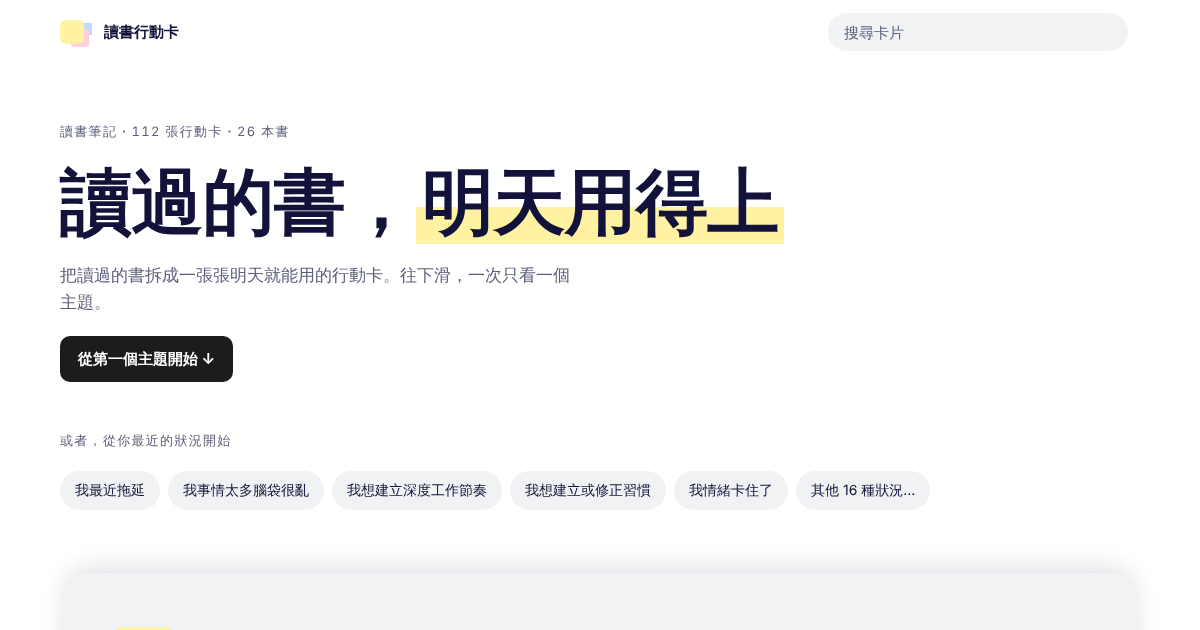
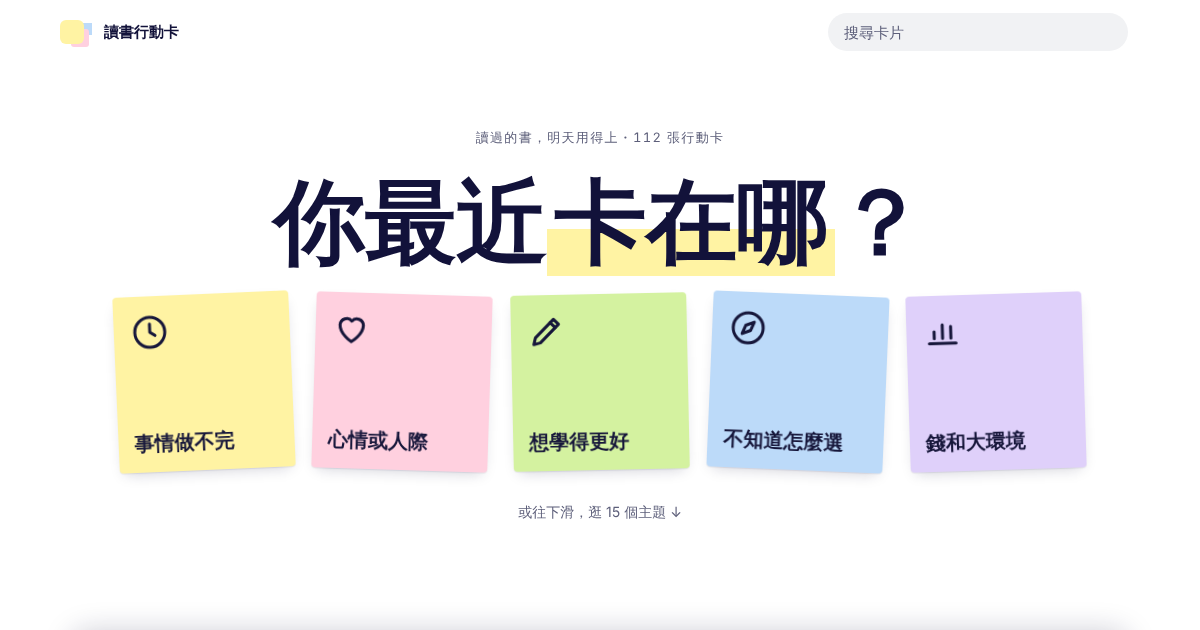
Open with a question flow that narrows down to matching cards
The first screen now asks where the visitor is stuck, then leads through
a category and a scenario to three cards. Topic slabs and the card view
carry less text and have a clear focal point.

Claude-Session: https://claude.ai/code/session_01KNDSXx5r3oeSEPQVxNjiE6

diff --git a/index.html b/index.html
@@ -3,10 +3,10 @@
 <head>
 <meta charset="utf-8">
 <meta name="viewport" content="width=device-width, initial-scale=1, viewport-fit=cover">
-<meta name="description" content="把讀過的書拆成一張張明天就能用的行動卡，往下滑，一次只看一個主題。">
+<meta name="description" content="把讀過的書拆成一張張明天就能用的行動卡，先回答一個問題，再拿到對應的卡。">
 <meta property="og:type" content="website">
 <meta property="og:title" content="讀過的書，明天用得上">
-<meta property="og:description" content="把讀過的書拆成一張張明天就能用的行動卡，往下滑，一次只看一個主題。">
+<meta property="og:description" content="把讀過的書拆成一張張明天就能用的行動卡，先回答一個問題，再拿到對應的卡。">
 <meta property="og:url" content="https://kevinpage.link/">
 <meta property="og:image" content="https://kevinpage.link/og.png">
 <meta name="twitter:card" content="summary_large_image">
@@ -66,16 +66,31 @@ h1,h2,h3,p,ol,ul{margin:0}
 .ghost{font-size:14px;color:var(--ink-soft);padding:8px 4px;white-space:nowrap}
 .ghost:hover{color:var(--accent)}
 
-/* 封面 */
-#hero{padding-block:clamp(40px,9vh,96px) clamp(48px,10vh,104px);display:flex;flex-direction:column;gap:20px;align-items:flex-start}
+/* 開場：先問一個問題，再一步步縮小到卡片。每一步畫面中央只有一句話和幾張便利貼。 */
+#flow{min-height:calc(100svh - var(--bar));display:flex;flex-direction:column;align-items:center;justify-content:center;text-align:center;gap:clamp(18px,3.6vh,34px);padding-block:20px 56px}
 .eyebrow{font-size:13px;letter-spacing:.1em;color:var(--ink-soft);font-variant-numeric:tabular-nums}
-h1{font-size:clamp(36px,7vw,72px);font-weight:900;line-height:1.12;letter-spacing:-.01em;text-wrap:balance}
+.crumbs{display:flex;flex-wrap:wrap;gap:6px;align-items:center;justify-content:center;font-size:13px;color:var(--ink-soft)}
+.crumbs button{background:var(--panel);border-radius:999px;padding:5px 12px}
+.crumbs button:hover{background:var(--accent-soft);color:var(--accent)}
+.crumbs b{font-weight:500;color:var(--ink);padding:5px 4px}
+h1{font-size:clamp(40px,8.5vw,92px);font-weight:900;line-height:1.1;letter-spacing:-.01em;text-wrap:balance}
+h1.s{font-size:clamp(30px,5.4vw,56px)}
 h1 mark{background:linear-gradient(transparent 58%,var(--n0) 58%);color:inherit;padding:0 .08em}
-#hero .sub{font-size:17px;color:var(--ink-soft);max-width:30em}
-#hero h3{font-size:13px;font-weight:500;color:var(--ink-soft);letter-spacing:.1em;margin-top:28px}
-.chips{display:flex;flex-wrap:wrap;gap:8px}
-.chips button{background:var(--panel);border-radius:999px;padding:8px 15px;font-size:14px}
-.chips button:hover{background:var(--accent-soft);color:var(--accent)}
+#flow .sub{font-size:clamp(15px,2vw,18px);color:var(--ink-soft);max-width:28em}
+.choices{display:flex;flex-wrap:wrap;justify-content:center;gap:clamp(12px,2vw,22px);max-width:1000px}
+.choice{width:clamp(140px,17vw,176px);min-height:clamp(128px,17vw,176px);background:var(--note);color:var(--note-ink);border-radius:4px;box-shadow:var(--sh-note);padding:16px;
+  display:flex;flex-direction:column;justify-content:space-between;gap:14px;text-align:left;font-weight:700;font-size:clamp(16px,2vw,20px);line-height:1.3;
+  transform:rotate(var(--r,0deg));transition:transform .2s cubic-bezier(.2,.8,.2,1),box-shadow .2s}
+.choice:hover,.choice:focus-visible{transform:rotate(0deg) translateY(-6px) scale(1.04);box-shadow:var(--sh-2)}
+.choice svg{width:40px;height:40px;stroke:currentColor;fill:none;stroke-width:1.8;stroke-linecap:round;stroke-linejoin:round}
+.choice small{font-size:12px;font-weight:400;opacity:.72}
+.pop{animation:pop .4s cubic-bezier(.2,.8,.2,1) both;animation-delay:calc(var(--i,0)*55ms)}
+@keyframes pop{from{opacity:0;transform:translateY(18px) rotate(var(--r,0deg)) scale(.94)}}
+.steps{list-style:none;padding:0;display:grid;grid-template-columns:repeat(3,minmax(0,1fr));gap:14px;max-width:820px;text-align:left}
+.steps li{background:var(--panel);border-radius:16px;padding:16px;display:flex;flex-direction:column;gap:8px;font-size:15px;line-height:1.5}
+.steps b{font-size:34px;font-weight:900;line-height:1;color:var(--accent);font-variant-numeric:tabular-nums}
+#flow .trio{width:100%;text-align:left}
+.label{font-size:13px;letter-spacing:.1em;color:var(--ink-soft)}
 
 /* 一張蓋一張的大卡 */
 .stack{display:flex;flex-direction:column;gap:28px}
@@ -97,6 +112,17 @@ h1 mark{background:linear-gradient(transparent 58%,var(--n0) 58%);color:inherit;
 .note:hover{transform:translateY(-3px);box-shadow:var(--sh-2)}
 .do{background:var(--n0);color:var(--note-ink);padding:14px 16px;border-radius:4px;box-shadow:var(--sh-note);max-width:36em}
 .do b{display:block;font-size:12.5px;letter-spacing:.1em;font-weight:700;opacity:.75}
+.slab.home{align-items:center;text-align:center;justify-content:center}
+.slab.home h2{font-size:clamp(56px,12vw,136px);line-height:1.05;max-width:none}
+.slab.home .trio{width:100%;text-align:left}
+.slab.home .foot{margin-top:0;justify-content:center;flex-direction:column}
+details.more summary{cursor:pointer;list-style:none;display:inline-block;background:var(--panel);border-radius:10px;padding:8px 14px;font-size:14px}
+details.more summary::-webkit-details-marker{display:none}
+details.more[open] summary{margin-bottom:16px}
+details.more>div{display:flex;flex-direction:column;gap:16px}
+#pbody ol.big{list-style:none;padding:0;gap:10px;counter-reset:s}
+#pbody ol.big li{counter-increment:s;display:grid;grid-template-columns:34px 1fr;gap:10px;align-items:start}
+#pbody ol.big li::before{content:counter(s);font-size:24px;font-weight:900;line-height:1.2;color:var(--accent)}
 .endcap{padding-block:56px 24px;display:flex;flex-direction:column;align-items:center;gap:14px;text-align:center;color:var(--ink-soft);font-size:14px}
 
 /* 主題內頁 */
@@ -137,11 +163,14 @@ h1 mark{background:linear-gradient(transparent 58%,var(--n0) 58%);color:inherit;
   .slab{border-radius:22px}
   .note{padding:10px}
   .slab .foot .btn{width:100%;justify-content:center}
+  .steps{grid-template-columns:1fr}
+  .steps li{flex-direction:row;align-items:center;gap:14px;padding:12px 16px}
+  .choice{width:calc(50% - 8px)}
   #panel{top:auto;left:0;right:0;bottom:0;width:100%;height:86%;border-radius:18px 18px 0 0;transform:translateY(102%);padding-bottom:env(safe-area-inset-bottom,0px)}
 }
 /* 畫面太矮時不疊卡，避免內容被切掉 */
 @media (max-height:600px){.slab{position:static;min-height:0}}
-@media (prefers-reduced-motion:reduce){#panel,.note,.btn{transition:none}}
+@media (prefers-reduced-motion:reduce){#panel,.note,.btn,.choice{transition:none}.pop{animation:none}}
 </style>
 
 <div id="home" class="wrap">
@@ -151,14 +180,7 @@ h1 mark{background:linear-gradient(transparent 58%,var(--n0) 58%);color:inherit;
     <span class="pos" id="pos"></span>
   </header>
   <main>
-    <section id="hero">
-      <div class="eyebrow" id="stats"></div>
-      <h1>讀過的書，<mark>明天用得上</mark></h1>
-      <p class="sub">把讀過的書拆成一張張明天就能用的行動卡。往下滑，一次只看一個主題。</p>
-      <button class="btn" id="start">從第一個主題開始 ↓</button>
-      <h3>或者，從你最近的狀況開始</h3>
-      <div class="chips" id="scn"></div>
-    </section>
+    <section id="flow" aria-live="polite"></section>
     <div class="stack" id="stack"></div>
     <div class="endcap" id="homeend"><span>你看完所有主題了。</span><button class="btn" id="totop">回到最上面 ↑</button></div>
     <section id="results" hidden><h2 id="rtitle"></h2><div id="rgrid"></div></section>
@@ -211,21 +233,63 @@ const note=(c,sub)=>el('button',{class:'note',style:'--note:'+groupOf.get(c.id).
 /* ---------- 首頁：一個主題一張大卡 ---------- */
 for(const g of groups){
   const nb=new Set(g.list.flatMap(c=>c.source_books)).size;
-  g.slab=el('section',{class:'slab',style:'--note:'+g.color,'aria-label':g.key},
-    el('div',{class:'top'},el('span',{class:'tag'},g.key),el('span',null,`${pad(g.i+1)} / ${pad(groups.length)}`)),
-    el('h2',null,LINES[g.key]||g.list[0].problem),
-    el('div',{class:'trio-label'},'先看這三張'),
+  g.slab=el('section',{class:'slab home',style:'--note:'+g.color,'aria-label':g.key},
+    el('div',{class:'top'},el('span',null,`${pad(g.i+1)} / ${pad(groups.length)}`)),
+    el('h2',null,g.key),
+    el('p',{class:'lead'},LINES[g.key]||g.list[0].problem),
     el('div',{class:'trio'},g.picks.map(c=>note(c))),
-    el('div',{class:'foot'},el('p',null,`${g.list.length} 張卡，整理自 ${nb} 本書`),
-      el('button',{class:'btn',onclick:()=>openTopic(g.i)},`看全部 ${g.list.length} 張 →`)));
+    el('div',{class:'foot'},el('button',{class:'btn',onclick:()=>openTopic(g.i)},`看全部 ${g.list.length} 張 →`)));
   $('stack').append(g.slab);
 }
-$('stats').textContent=`讀書筆記・${cards.length} 張行動卡・${books.length} 本書`;
-const scn=$('scn'), FIRST=5;
-scenarios.forEach((s,i)=>{const b=el('button',{onclick:()=>showScenario(s)},s.title);if(i>=FIRST)b.hidden=true;scn.append(b)});
-if(scenarios.length>FIRST){const more=el('button',{onclick:()=>{for(const b of scn.children)b.hidden=false;more.remove()}},`其他 ${scenarios.length-FIRST} 種狀況…`);scn.append(more)}
-$('start').onclick=()=>groups[0].slab.scrollIntoView({behavior:'smooth',block:'start'});
-$('brand').onclick=$('totop').onclick=()=>scrollTo({top:0,behavior:'smooth'});
+$('brand').onclick=$('totop').onclick=()=>{fs={g:null,s:null};renderFlow();scrollTo({top:0,behavior:'smooth'})};
+
+/* ---------- 開場的問答：問題 → 選一類 → 選狀況 → 對應的卡 ---------- */
+const ICON={
+  clock:'<circle cx="12" cy="12" r="9"/><path d="M12 7v5l3 2"/>',
+  heart:'<path d="M12 20s-7-4.4-7-10a4 4 0 0 1 7-2.4A4 4 0 0 1 19 10c0 5.6-7 10-7 10z"/>',
+  pencil:'<path d="M4 20l1-4L16 5l3 3L8 19l-4 1z"/><path d="M14 7l3 3"/>',
+  compass:'<circle cx="12" cy="12" r="9"/><path d="M15.5 8.5l-2 5-5 2 2-5z"/>',
+  chart:'<path d="M4 19h16"/><path d="M7 16v-4M12 16V8M17 16v-7"/>'};
+const FLOW=[
+  {label:'事情做不完',icon:'clock',ids:['procrastination','overwhelmed','deep-work','habit-building','news-attention']},
+  {label:'心情或人際',icon:'heart',ids:['emotional-reset','conflict-boundaries','better-relationships','better-communication','family-money-care']},
+  {label:'想學得更好',icon:'pencil',ids:['learning-skill','writing-knowledge','presentation-story','growth-mindset']},
+  {label:'不知道怎麼選',icon:'compass',ids:['better-decisions','career-growth','life-design','body-energy']},
+  {label:'錢和大環境',icon:'chart',ids:['money-investing','systems-thinking','social-systems']}];
+{const sb=new Map(scenarios.map(s=>[s.id,s])),used=new Set();
+ for(const f of FLOW){f.list=f.ids.map(i=>sb.get(i)).filter(Boolean);f.list.forEach(s=>used.add(s.id))}
+ FLOW[FLOW.length-1].list.push(...scenarios.filter(s=>!used.has(s.id)));}
+const TILT=[-2.5,1.8,-1.2,2.4,-1.8];
+const icon=k=>{const s=document.createElementNS('http://www.w3.org/2000/svg','svg');s.setAttribute('viewBox','0 0 24 24');s.setAttribute('aria-hidden','true');s.innerHTML=ICON[k];return s};
+let fs={g:null,s:null};
+function go(g,s){fs={g,s};renderFlow();scrollTo({top:0,behavior:'smooth'})}
+function renderFlow(){
+  const f=$('flow'), G=fs.g==null?null:FLOW[fs.g], col=i=>`var(--n${i%7})`;
+  const crumbs=G&&el('div',{class:'crumbs'},el('button',{onclick:()=>go(null,null)},'← 卡在哪'),
+    fs.s?[el('span',null,'›'),el('button',{onclick:()=>go(fs.g,null)},G.label),el('span',null,'›'),el('b',null,'對應的卡')]:[el('span',null,'›'),el('b',null,G.label)]);
+  if(!G){
+    f.replaceChildren(
+      el('div',{class:'eyebrow'},`讀過的書，明天用得上・${cards.length} 張行動卡`),
+      el('h1',null,'你最近',el('mark',null,'卡在哪'),'？'),
+      el('div',{class:'choices'},FLOW.map((x,i)=>el('button',{class:'choice pop',style:`--note:${col(i)};--r:${TILT[i%5]}deg;--i:${i}`,onclick:()=>go(i,null)},icon(x.icon),x.label))),
+      el('button',{class:'ghost',onclick:()=>groups[0].slab.scrollIntoView({behavior:'smooth',block:'start'})},`或往下滑，逛 ${groups.length} 個主題 ↓`));
+  }else if(!fs.s){
+    f.replaceChildren(crumbs,
+      el('h1',{class:'s'},'比較像哪一種？'),
+      el('div',{class:'choices'},G.list.map((s,i)=>el('button',{class:'choice pop',style:`--note:${col(fs.g)};--r:${TILT[(i+fs.g)%5]}deg;--i:${i}`,onclick:()=>go(fs.g,s)},s.title))));
+  }else{
+    const s=fs.s, ids=s.card_ids.filter(i=>byId.has(i)), rest=ids.slice(3);
+    const extra=el('div',{class:'trio',hidden:''},rest.map(i=>note(byId.get(i))));
+    const more=rest.length?el('button',{class:'ghost',onclick:()=>{extra.hidden=false;more.remove()}},`再看其他 ${rest.length} 張`):null;
+    f.replaceChildren(crumbs,
+      el('h1',{class:'s'},s.title),
+      el('ol',{class:'steps'},s.quick_steps.map((t,i)=>el('li',{class:'pop',style:`--i:${i}`},el('b',null,i+1),el('span',null,t)))),
+      el('div',{class:'label'},'從這三張卡開始'),
+      el('div',{class:'trio'},ids.slice(0,3).map(i=>note(byId.get(i)))),
+      extra,more);
+  }
+}
+renderFlow();
 
 function countPos(slabs,root){const line=(root?root.getBoundingClientRect().top:0)+innerHeight*.5;let n=0;for(const s of slabs)if(s.getBoundingClientRect().top<=line)n++;return n}
 let tick=false;
@@ -261,7 +325,7 @@ $('next').onclick=()=>openTopic((cur+1)%groups.length);
 /* ---------- 搜尋 ---------- */
 function applyFilter(){
   const q=$('q').value.trim().toLowerCase(), on=!!q;
-  $('hero').hidden=$('stack').hidden=$('homeend').hidden=on;$('results').hidden=!on;
+  $('flow').hidden=$('stack').hidden=$('homeend').hidden=on;$('results').hidden=!on;
   if(on){const hits=cards.filter(c=>[c.title,c.life_area,c.problem,...c.tags,...c.source_books].join('\n').toLowerCase().includes(q));
     $('rtitle').textContent=hits.length?`找到 ${hits.length} 張卡`:'沒有符合的卡片，換個關鍵字試試。';
     $('rgrid').replaceChildren(...hits.map(c=>note(c,c.life_area)));scrollTo({top:0})}
@@ -284,15 +348,16 @@ function showCard(c){
     el('span',{class:'tag'},c.life_area),
     el('h2',null,c.title),
     el('p',{class:'lead'},c.problem),
-    ...sec('核心概念',c.core_idea),
-    ...sec('什麼時候用',c.when_to_use),
-    ...sec('怎麼做',el('ol',null,c.how_to_apply.map(s=>el('li',null,s)))),
-    ...sec('例子',c.example),
+    ...sec('怎麼做',el('ol',{class:'big'},c.how_to_apply.map(s=>el('li',null,s)))),
     el('div',{class:'do'},el('b',null,'今天就練一次'),c.practice),
-    ...sec('要小心',el('p',{class:'warn'},c.warning)),
     el('div',{class:'meta'},el('span',null,'需要 '+c.time_required),el('span',null,'難度 ',pips(c.difficulty)),el('span',null,'影響 ',pips(c.impact))),
-    ...sec('出自',el('div',{class:'links'},c.source_books.map(b=>el('button',{onclick:()=>showBook(b)},'《'+b+'》')))),
-    c.source_note?el('p',{class:'small'},c.source_note):null,
+    el('details',{class:'more'},el('summary',null,'看更多：概念、例子、要小心的事'),el('div',null,
+      ...sec('核心概念',c.core_idea),
+      ...sec('什麼時候用',c.when_to_use),
+      ...sec('例子',c.example),
+      ...sec('要小心',el('p',{class:'warn'},c.warning)),
+      ...sec('出自',el('div',{class:'links'},c.source_books.map(b=>el('button',{onclick:()=>showBook(b)},'《'+b+'》')))),
+      c.source_note?el('p',{class:'small'},c.source_note):null)),
     ...(c.related_cards.some(i=>byId.has(i))?sec('接著可以看',cardLinks(c.related_cards)):[])
   );
 }
@@ -303,13 +368,6 @@ function showBook(title){
     b.author?el('p',{class:'small'},b.author):null,b.short_note?el('p',{class:'lead'},b.short_note):null,
     ...(b.application_takeaways&&b.application_takeaways.length?sec('這本書我帶走的',el('ul',null,b.application_takeaways.map(t=>el('li',null,t)))):[]),
     ...sec(`從這本書整理出的 ${list.length} 張卡`,cardLinks(list.map(c=>c.id))));
-  openPanel();
-}
-function showScenario(s){
-  const ids=s.card_ids.filter(i=>byId.has(i));
-  pbody.style.setProperty('--note','var(--n1)');setHash('');
-  pbody.replaceChildren(el('span',{class:'tag'},'情境'),el('h2',null,s.title),el('p',{class:'lead'},s.description),
-    ...sec('先做這幾步',el('ol',null,s.quick_steps.map(t=>el('li',null,t)))),...sec('先從這三張開始',cardLinks(ids)));
   openPanel();
 }
 function setHash(id){try{history.replaceState(null,'',id?'#'+id:location.pathname+location.search)}catch(e){}}
